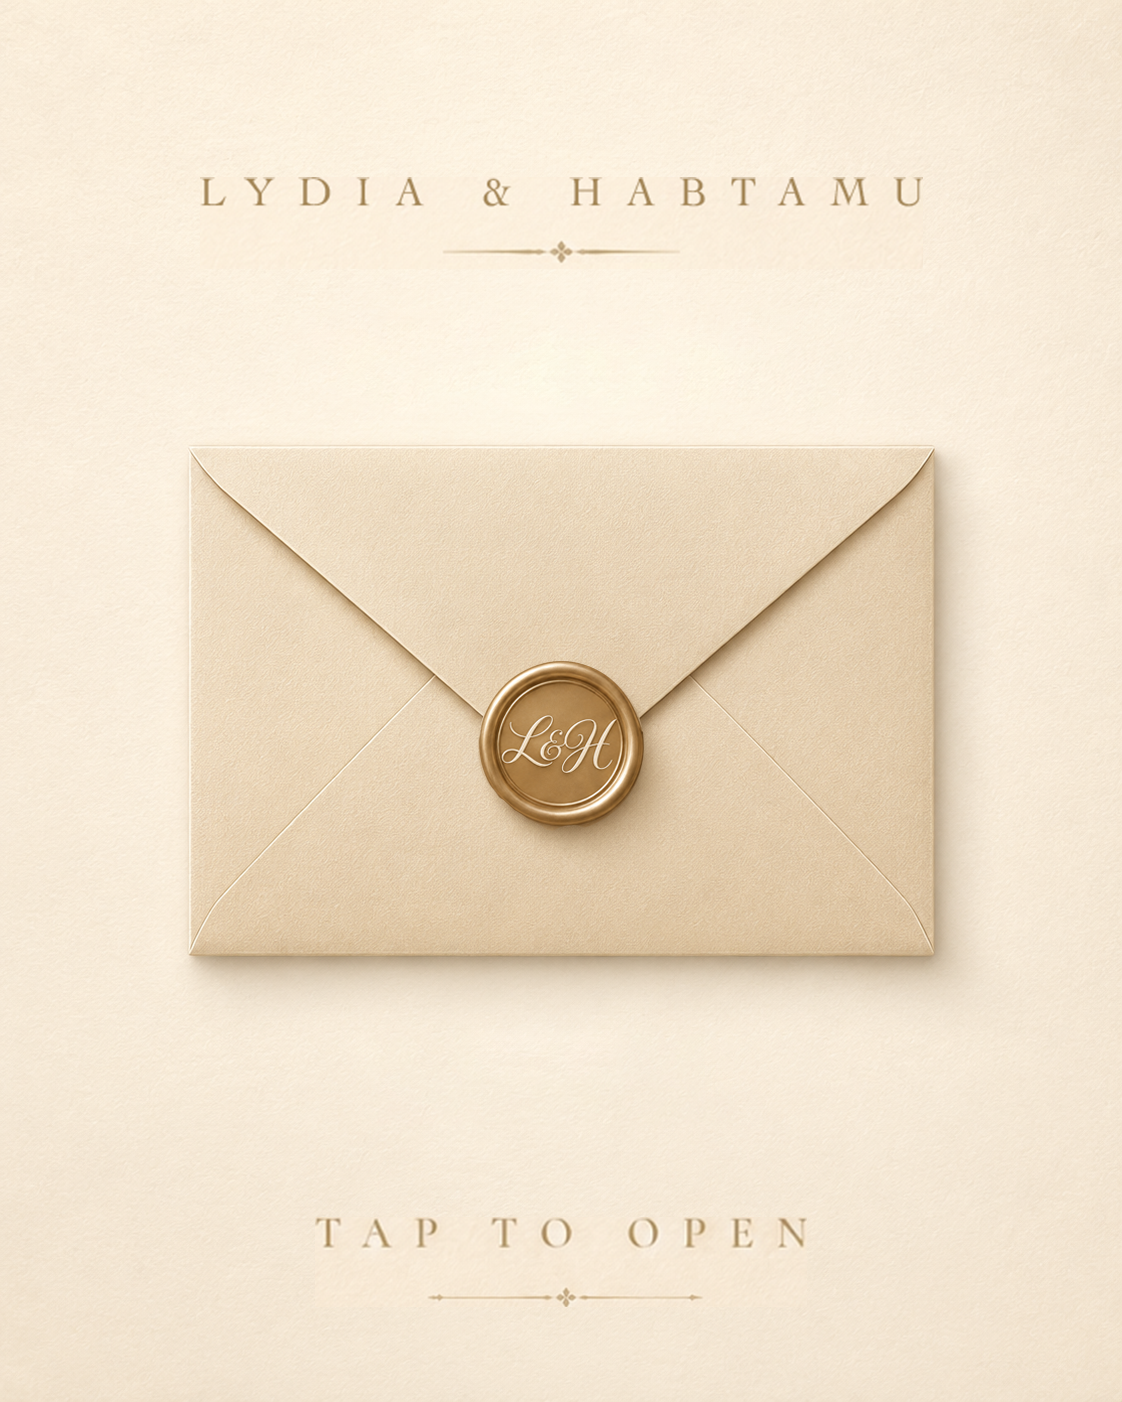
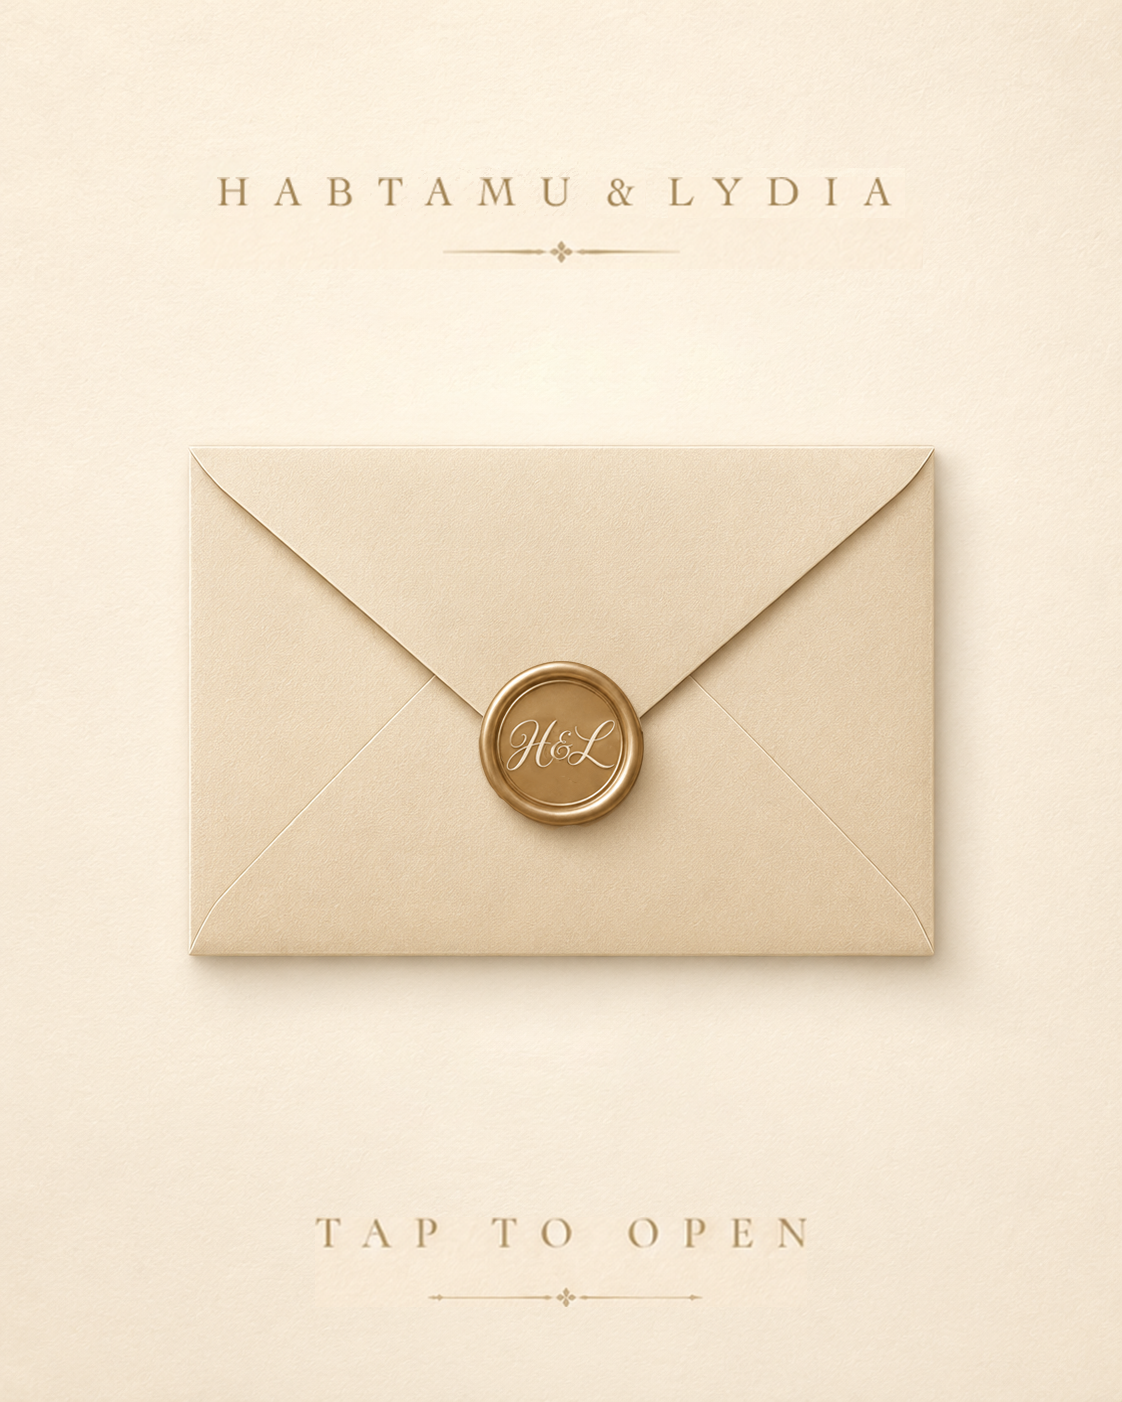
Update envelope assets and prevent stale page cache

Changed region(s): [[0.156, 0.1227, 0.8111, 0.1534], [0.4367, 0.4907, 0.5615, 0.5521]]

diff --git a/index.html b/index.html
@@ -3,7 +3,7 @@
 <head>
 <meta charset="utf-8">
 <meta name="viewport" content="width=device-width, initial-scale=1">
-<title>Lydia &amp; Habtamu &mdash; Wedding Ceremony</title>
+<title>Habtamu &amp; Lydia &mdash; Wedding Ceremony</title>
 <script src="./support.js"></script>
 <script src="assets/guest-gallery.js?v=6"></script>
 </head>
@@ -12,10 +12,10 @@
 <helmet>
   <link rel="preconnect" href="https://fonts.googleapis.com">
   <link rel="preconnect" href="https://fonts.gstatic.com" crossorigin>
-  <link rel="preload" as="image" href="assets/envelope-closed-lydia-habtamu-en.webp?v=2" fetchpriority="high">
-  <link rel="preload" as="image" href="assets/envelope-open-lydia-habtamu-en.webp?v=2" fetchpriority="high">
-  <link rel="preload" as="image" href="assets/envelope-closed-lydia-habtamu.webp">
-  <link rel="preload" as="image" href="assets/envelope-open-lydia-habtamu.webp">
+  <link rel="preload" as="image" href="assets/envelope-closed-lydia-habtamu-en.png?v=3" fetchpriority="high">
+  <link rel="preload" as="image" href="assets/envelope-open-lydia-habtamu-en.png?v=3" fetchpriority="high">
+  <link rel="preload" as="image" href="assets/envelope-closed-lydia-habtamu.png?v=3">
+  <link rel="preload" as="image" href="assets/envelope-open-lydia-habtamu.png?v=3">
   <link rel="preload" as="image" href="assets/doves-poster.webp" fetchpriority="high">
   <link href="https://fonts.googleapis.com/css2?family=Cormorant+Garamond:ital,wght@0,300;0,400;0,500;0,600;1,300;1,400;1,500&amp;family=Pinyon+Script&amp;display=swap" rel="stylesheet">
   <style>
@@ -514,14 +514,6 @@
               <iframe title="International Evangelical Church map preview" src="https://maps.google.com/maps?q=8.99761,38.73894&amp;z=16&amp;output=embed" loading="lazy" referrerpolicy="no-referrer-when-downgrade" style="width: 100%; height: min(62vw, 360px); min-height: 260px; border: 0; display: block; filter: sepia(0.2) saturate(0.82) contrast(0.96);"></iframe>
             </div>
           </div>
-          <div style="border: 1px solid rgba(160, 132, 100, 0.55); background: rgba(250, 246, 238, 0.52); padding: clamp(20px, 5vw, 30px);">
-            <div style="font-size: clamp(14px, 3.8vw, 16px); letter-spacing: 0.32em; text-indent: 0.32em; color: #A08464;">{{ receptionLabel }}</div>
-            <div style="margin-top: 14px; font-size: clamp(24px, 5.6vw, 34px); color: #4A4036; line-height: 1.25;">{{ receptionVenue }}</div>
-            <div style="margin-top: 18px; font-size: clamp(16px, 4vw, 20px); color: #8A6B4C; line-height: 1.5;">{{ receptionTime }}</div>
-            <div style="margin-top: 22px; overflow: hidden; border: 1px solid rgba(160, 132, 100, 0.5); background: #E7D7BA;">
-              <iframe title="Sheraton Addis Hotel map preview" src="https://maps.google.com/maps?q=9.0203,38.75949&amp;z=16&amp;output=embed" loading="lazy" referrerpolicy="no-referrer-when-downgrade" style="width: 100%; height: min(62vw, 360px); min-height: 260px; border: 0; display: block; filter: sepia(0.2) saturate(0.82) contrast(0.96);"></iframe>
-            </div>
-          </div>
         </div>
       </div>
     </div>
@@ -569,7 +561,7 @@
     <div data-reveal="0.3" style="display: {{ footerNoteDisplay }}; margin-top: 18px; max-width: 560px; font-size: clamp(17px, 4.2vw, 20px); line-height: 1.55; font-style: italic; letter-spacing: {{ footerNoteLetterSpacing }}; text-indent: {{ footerNoteLetterSpacing }}; color: #7D6A55;">{{ footerNote }}</div>
     <div data-reveal="0.4" style="margin-top: 56px; display: flex; align-items: center; gap: 12px;">
       <div style="width: 40px; height: 1px; background: #C9B896;"></div>
-      <a href="https://menaincet.com" target="_blank" rel="noopener" style="font-size: 12px; letter-spacing: 0.4em; text-indent: 0.4em; color: #A99677; text-decoration: none;">MENA INC &middot; 2026</a>
+      <a href="https://menaincet.com" target="_blank" rel="noopener" style="font-size: 12px; letter-spacing: 0.4em; text-indent: 0.4em; color: #A99677; text-decoration: underline; text-underline-offset: 4px; text-decoration-thickness: 1px;">MENA INC &middot; 2026</a>
       <div style="width: 40px; height: 1px; background: #C9B896;"></div>
     </div>
   </section>
@@ -600,8 +592,8 @@ class Component extends DCLogic {
     return this.state.isAmharic ? {
       languageToggleLabel: 'EN',
       languageToggleAria: 'Switch to English',
-      coverOpenSrc: 'assets/envelope-open-lydia-habtamu.webp',
-      coverClosedSrc: 'assets/envelope-closed-lydia-habtamu.webp',
+      coverOpenSrc: 'assets/envelope-open-lydia-habtamu.png?v=3',
+      coverClosedSrc: 'assets/envelope-closed-lydia-habtamu.png?v=3',
       coverOpenAlt: 'የተከፈተ የግብዣ ፖስታ',
       coverClosedAlt: 'የታሸገ የግብዣ ፖስታ፣ ለመክፈት ይንኩ',
       heroEyebrow: '',
@@ -609,7 +601,7 @@ class Component extends DCLogic {
       heroTitle: 'በክብር',
       heroInviteWord: 'ተጋብዘዋል',
       heroTagline: 'የጋብቻ ሥነ ሥርዓታችንን ከእኛ ጋር ለማክበር',
-      coupleNames: 'ሊዲያ & ሀብታሙ',
+      coupleNames: 'ሀብታሙ & ሊዲያ',
       dateLabel: 'ቀን:',
       dayText: 'ቅዳሜ',
       monthText: 'ጥቅምት',
@@ -627,9 +619,6 @@ class Component extends DCLogic {
       ceremonyVenueSecondary: '',
       ceremonyVenueSecondaryDisplay: 'none',
       ceremonyTime: 'ከቀኑ 8፡00 ሰዓት',
-      receptionLabel: 'የእራት ፕሮግራም',
-      receptionVenue: 'ሸራተን አዲስ ሆቴል',
-      receptionTime: 'ከምሽቱ 1፡00 ሰዓት',
       guestTitle: 'እንግዶች',
       guestTitleFontSize: '28px',
       memoriesTitle: 'ትዝታዎች',
@@ -663,8 +652,8 @@ class Component extends DCLogic {
     } : {
       languageToggleLabel: 'አማ',
       languageToggleAria: 'Switch to Amharic',
-      coverOpenSrc: 'assets/envelope-open-lydia-habtamu-en.webp?v=2',
-      coverClosedSrc: 'assets/envelope-closed-lydia-habtamu-en.webp?v=2',
+      coverOpenSrc: 'assets/envelope-open-lydia-habtamu-en.png?v=3',
+      coverClosedSrc: 'assets/envelope-closed-lydia-habtamu-en.png?v=3',
       coverOpenAlt: 'Opened envelope',
       coverClosedAlt: 'Sealed envelope, tap to open',
       heroEyebrow: 'YOU’RE',
@@ -672,7 +661,7 @@ class Component extends DCLogic {
       heroTitle: 'CORDIALLY',
       heroInviteWord: 'INVITED',
       heroTagline: 'to celebrate our wedding ceremony',
-      coupleNames: 'Lydia  &  Habtamu',
+      coupleNames: 'Habtamu  &  Lydia',
       dateLabel: 'DATE:',
       dayText: 'SATURDAY',
       monthText: 'OCT',
@@ -690,9 +679,6 @@ class Component extends DCLogic {
       ceremonyVenueSecondary: '',
       ceremonyVenueSecondaryDisplay: 'none',
       ceremonyTime: '2:00 PM',
-      receptionLabel: 'DINNER RECEPTION',
-      receptionVenue: 'Sheraton Addis Hotel',
-      receptionTime: '7:00 PM',
       guestTitle: 'GUEST',
       guestTitleFontSize: '34px',
       memoriesTitle: 'memories',
